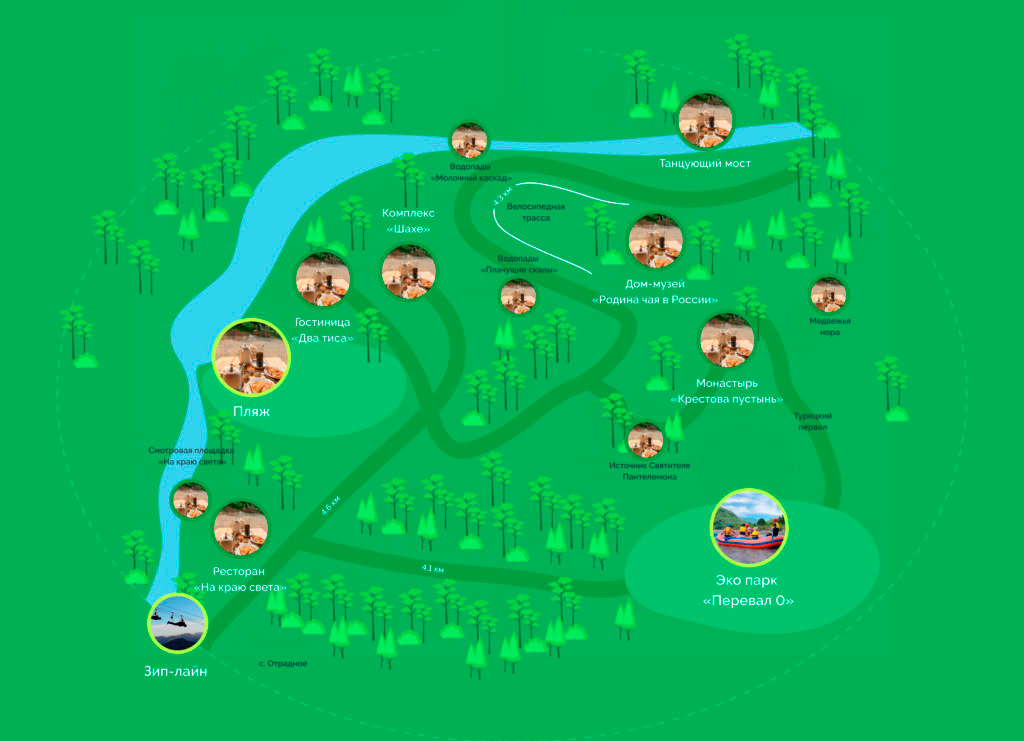
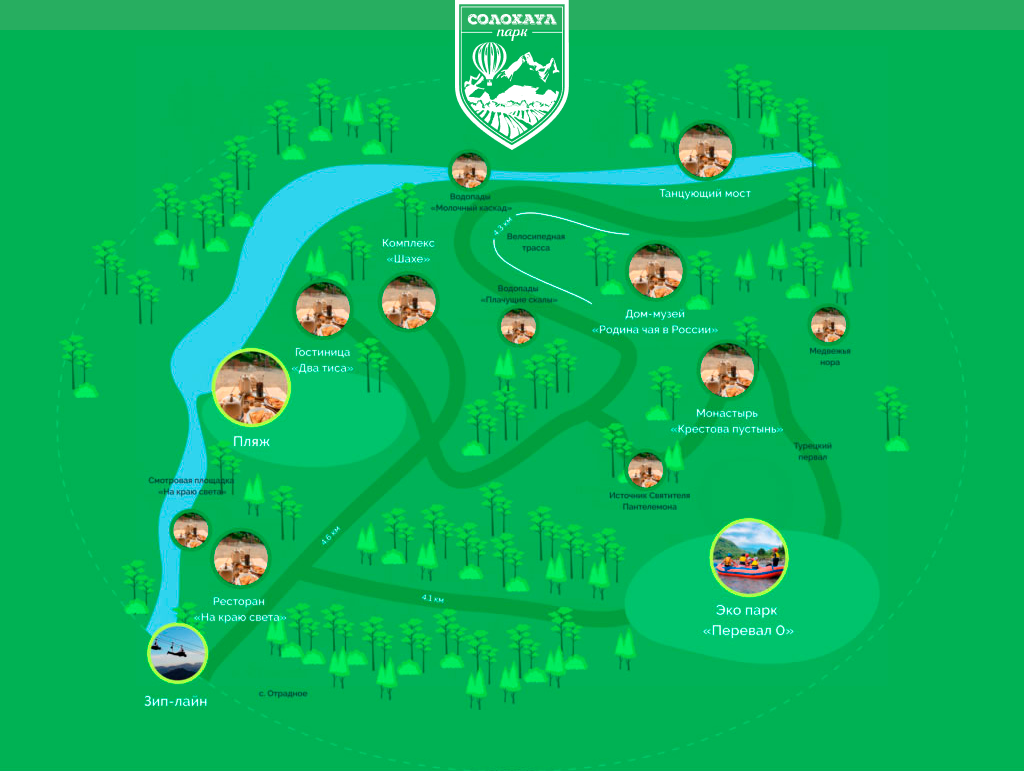
шапка на странице "О парке"

diff --git a/about.html b/about.html
@@ -105,10 +105,10 @@
     </div>
 </div>
 <!-- HEADER END-->
-<!-- CONTENT START-->
-<main class="content content--contacts">
-    <!-- BREADCRUMBS START-->
+<!-- HERO START-->
+<header class="hero hero--about">
     <div class="container">
+        <!-- BREADCRUMBS START-->
         <div class="breadcrumbs">
             <div class="breadcrumbs_item"><a href="#todo">Главная</a></div>
             <div class="breadcrumbs_item">
@@ -116,69 +116,113 @@
                     <use xlink:href="assets/svg/sprite.svg#chevron-right"></use>
                 </svg>
             </div>
-            <div class="breadcrumbs_item"><a href="#todo">Новости</a></div>
-            <div class="breadcrumbs_item">
-                <svg class="icon icon--chevron-right">
-                    <use xlink:href="assets/svg/sprite.svg#chevron-right"></use>
+            <div class="breadcrumbs_item breadcrumbs_item--active"><span>О парке</span></div>
+        </div>
+        <!-- BREADCRUMBS END -->
+        <div class="hero_content">
+            <h1 class="title">О парке</h1>
+            <p class="sub-title">Солохаул парк — это удивительный мир дикой, нетронутой природы в часе езды от Сочи. Если вы решили провести время с семьёй и получить самые незабываемые впечатления от пребывания на свежем воздухе, то добро пожаловать в парк «Солохаул»! Скучно не будет никому!</p>
+            <div class="btn btn--primary">Купить билеты</div>
+        </div>
+        <div class="hero_play-wrapper">
+            <svg class="hero_play icon icon--play">
+                <use xlink:href="assets/svg/sprite.svg#play"></use>
+            </svg>
+        </div>
+        <div class="weather-widget">
+            <div class="weather-widget_title"><span>Сочи,</span> <span>суббота</span></div>
+            <div class="weather-widget_data">
+                <svg class="weather-widget_icon icon icon--weather">
+                    <use xlink:href="assets/svg/sprite.svg#weather-cloudly"></use>
                 </svg>
+                <span class="weather-widget_temperature">+21 С</span>
             </div>
-            <div class="breadcrumbs_item breadcrumbs_item--active"><span>Новость</span></div>
         </div>
     </div>
-    <!-- BREADCRUMBS END -->
-    <div class="container">
-        <h1 class="h2">Контакты</h1>
-        <p>Мы всегда будем рады видеть вас в нашем парке</p>
-    </div>
-    <!-- CONTACTS START-->
-    <section class="contacts-info">
+</header>
+<!-- HERO END-->
+<!-- CONTENT START-->
+<main class="content">
+    <!-- ABOUT START-->
+    <section class="about-page">
         <div class="container">
-            <div class="contacts-info_items">
-                <div class="contacts-info_item">
-                    <svg class="contacts-info_item-logo icon icon--address">
-                        <use xlink:href="assets/svg/sprite.svg#address"></use>
-                    </svg>
-                    <h2 class="contacts-info_item-title">Адрес</h2>
-                    <div class="contacts-info_item-content">
-                        354538, Россия, Краснодарский край, город Сочи, село Солохаул, улица Ноябрьская, дом 15Д
-                    </div>
+            <div>
+                <div>
+                    <h2>Горы и водопады</h2>
+                    <p>
+                        В парке можно прогуляться среди гор и водопадов, понежиться в гамаках, наслаждаясь пейзажами
+                        долины
+                        реки
+                        Шахе и горы Фишт, которые по праву считаются заслуженным украшением этих мест, искупаться в
+                        чистейшей
+                        горной реке, позагорать
+                    </p>
                 </div>
-                <div class="contacts-info_item">
-                    <svg class="contacts-info_item-logo icon icon--email">
-                        <use xlink:href="assets/svg/sprite.svg#email"></use>
-                    </svg>
-                    <h2 class="contacts-info_item-title">E-mail</h2>
-                    <div class="contacts-info_item-content">
-                        <a class="link link--primary" href="#todo">info@solohaulpark.ru</a>
-                    </div>
+                <img src="" alt="#todo">
+            </div>
+            <div class="divider"></div>
+            <div>
+                <div>
+                    <h2>Активно</h2>
+                    <p>
+                        Для желающих пройти испытания на прочность, смелость и выносливость опытными инструкторами
+                        подготовлены
+                        программы экстремальных развлечений: зиплайн, верёвочный парк, обзорный подъем на воздушном
+                        шаре,
+                        ознакомительная прогулка на военном БТР
+                    </p>
                 </div>
-                <div class="contacts-info_item">
-                    <svg class="contacts-info_item-logo icon icon--phone">
-                        <use xlink:href="assets/svg/sprite.svg#phone"></use>
-                    </svg>
-                    <h2 class="contacts-info_item-title">Телефон</h2>
-                    <div class="contacts-info_item-content">
-                        <div><a class="link link--primary" href="#todo">+7 (928) 449-88-85</a></div>
-                        <div>Вт. - Вс. с 12:00 до 18:00</div>
-                        <div>Понедельник — выходной</div>
-                    </div>
+                <img src="" alt="#todo">
+            </div>
+            <div class="divider"></div>
+            <div>
+                <div>
+                    <h2>Для детей</h2>
+                    <p>
+                        Наши самые маленькие, но при этом не менее дорогие гости, смогут посетить детский верёвочный
+                        парк,
+                        под
+                        неусыпным и бдительным присмотром опытных инструкторов, которые встретят вас, как старинных
+                        знакомых
+                    </p>
                 </div>
-                <div class="contacts-info_item">
-                    <svg class="contacts-info_item-logo icon icon--office-hours">
-                        <use xlink:href="assets/svg/sprite.svg#office-hours"></use>
-                    </svg>
-                    <h2 class="contacts-info_item-title">Режим работы</h2>
-                    <div class="contacts-info_item-content">
-                        <div>Вт.-Вс.</div>
-                        <div>«ЗипЛайн» с 10:00 до 18:00</div>
-                        <div>«Зеленая поляна» с 12:00 до 18:00</div>
-                        <div>Понедельник — выходной!</div>
-                    </div>
+                <img src="" alt="#todo">
+            </div>
+            <div class="divider"></div>
+            <div>
+                <div>
+                    <h2>Еда</h2>
+                    <p>
+                        Ну и, конечно же, после многочисленных ярких впечатлений, мы приглашаем наших гостей
+                        подкрепиться
+                        вкусными блюдами, которые всегда рады предложить в нескольких ресторанах нашего «Солохаул
+                        Парка».
+                        Если
+                        вы захотите остаться на ночь — на территории есть несколько гостиниц.
+                    </p>
                 </div>
+                <img src="" alt="#todo">
             </div>
         </div>
     </section>
-    <!-- CONTACTS END-->
+    <!-- ABOUT END-->
+    <!-- GALLERY START-->
+    <section class="gallery gray">
+        <div class="container">
+            <h2 class="title">Фотогалерея</h2>
+            <div class="grid">
+                <div class="card grid_cell"></div>
+            </div>
+        </div>
+    </section>
+    <!-- GALLERY END-->
+    <!-- PARK MAP START-->
+    <section class="park-map">
+        <div class="container">
+            <img src="./assets/img/park-map.png" alt="#todo">
+        </div>
+    </section>
+    <!-- PARK MAP END-->
     <!-- CONTACT FORM START-->
     <section class="contact-form gray">
         <div class="container">

diff --git a/index.html b/index.html
@@ -106,7 +106,7 @@
 </div>
 <!-- HEADER END-->
 <!-- HERO START-->
-<header class="hero">
+<header class="hero hero--landing">
     <div class="container">
         <div class="hero_content">
             <h1 class="title">Открытие «AERO PARK»<br>11-13 сентября 2020 г.</h1>
@@ -371,12 +371,12 @@
             </div>
             <div class="transfer_buttons">
                 <div class="btn btn--outline">Оставить заявку</div>
-                <div class="btn btn--link">
+                <a class="btn btn--link" href="geo:43.8071413,39.6113559?z=8">
                     <svg class="icon icon--place">
                         <use xlink:href="assets/svg/sprite.svg#place"></use>
                     </svg>
                     <div class="btn_content">Как доехать?</div>
-                </div>
+                </a>
             </div>
         </div>
     </section>
@@ -536,9 +536,29 @@
     <!-- CONTACT FORM START-->
     <section class="contact-form gray">
         <div class="container">
-            <div class="contact-form_map"></div>
+            <div id="contact-map" class="contact-form_map"></div>
             <div class="contact-form_form">
-                <h2 class="title">Остались вопросы?</h2>
+                <h2 class="title h3">Остались вопросы?</h2>
+                <form class="form">
+                    <div class="form_field">
+                        <input type="text" name="size" id="name">
+                        <label for="name">Имя</label>
+                    </div>
+                    <div class="form_field form_field--not-empty">
+                        <input type="text" name="size" id="email">
+                        <label for="email">Электронная почта</label>
+                    </div>
+                    <div class="form_field form_field--success">
+                        <input type="text" name="size" id="phone">
+                        <label for="phone">Телефон</label>
+                    </div>
+                    <div class="form_field form_field--error">
+                        <input type="text" name="size" id="message">
+                        <label for="message">Вопрос</label>
+                        <div class="form_field-error">Обязательно поле</div>
+                    </div>
+                </form>
+                <button class="contact-form_btn btn btn--inline btn--primary">Отправить</button>
             </div>
         </div>
     </section>
@@ -657,5 +677,8 @@
         crossorigin="anonymous">
 </script>
 <script src="assets/js/index.js"></script>
+<script
+        src="https://maps.googleapis.com/maps/api/js?key=AIzaSyBq50xkGwbiIwG2_tjPl0tmuzoEJr7Sr14&callback=initMap">
+</script>
 </body>
 </html>

diff --git a/assets/css/style.css b/assets/css/style.css
@@ -184,6 +184,8 @@ section.green {
 }
 
 .btn.btn--link {
+    color: #FFFFFF;
+    text-decoration: none;
     border: 0px;
     padding: 0px 30px 0px 20px;
 }
@@ -654,6 +656,12 @@ section.green {
     background-size: cover;
     background-position: bottom;
 }
+.hero.hero--landing {
+    background-image: url("../img/content/main-hero-bg.jpg");
+}
+.hero.hero--about {
+    background-image: url("../img/content/about/about-hero-image.jpg");
+}
 
 .hero .container {
     position: relative;
@@ -716,24 +724,30 @@ section.green {
     bottom: 50px;
 }
 
-.weather-widget_title {
+.weather-widget_title span:first-child {
+    font-size: 24px;
 }
 
 .weather-widget_data {
+    display: flex;
+    align-items: flex-end;
 }
 
 .weather-widget_icon {
+    margin-right: 10px;
 }
 
 .weather-widget_temperature {
+    font-size: 24px;
 }
 
 
 /************ BREADCRUMBS ************/
 .breadcrumbs {
     display: flex;
-    align-items: center;
+    align-items: baseline;
     height: 60px;
+    padding: 20px 0px;
     font-size: 15px;
 }
 
@@ -741,19 +755,37 @@ section.green {
     display: flex;
     align-items: center;
 }
-
-.breadcrumbs_item--active {
-    color: #27AE60;
+.breadcrumbs_item .icon.icon--chevron-right {
+    width: 5px;
+    height: 8px;
 }
-
 .breadcrumbs_item:not(:last-child) {
     margin-right: 10px;
 }
 
-.breadcrumbs_item > a {
+.breadcrumbs_item--active {
     color: #333333;
 }
 
+.breadcrumbs_item > a {
+    color: #27AE60;
+}
+.breadcrumbs_item > a:hover {
+    color: #27AE60;
+}
+
+.hero.hero--about .breadcrumbs {
+    position: absolute;
+    top: 0px;
+    color: #333333;
+}
+
+.hero.hero--about .breadcrumbs .breadcrumbs_item > a {
+    color: #333333;
+}
+.hero.hero--about .breadcrumbs .breadcrumbs_item > a:hover {
+    color: #27AE60;
+}
 
 /************ PAGINATION ************/
 .pagination {
@@ -2161,6 +2193,16 @@ section.green {
 
 @media (min-width: 1200px) {}
 
+/************ PARK MAP ************/
+.park-map {
+    background-color: #00b254;
+    padding-top: 70px;
+    padding-bottom: 70px;
+}
+.park-map .container {
+    display: flex;
+    justify-content: center;
+}
 /************ FORM ************/
 .form_field {
     position: relative;

diff --git a/assets/js/index.js b/assets/js/index.js
@@ -3,3 +3,19 @@ $(document).ready(function(){
         $(this).toggleClass('open');
     });
 });
+
+// Initialize and add the map
+function initMap() {
+    // The location of Uluru
+    const uluru = { lat: 43.8071413, lng: 39.6113559 };
+    // The map, centered at Uluru
+    const map = new google.maps.Map(document.getElementById("contact-map"), {
+        zoom: 10,
+        center: uluru,
+    });
+    // The marker, positioned at Uluru
+    const marker = new google.maps.Marker({
+        position: uluru,
+        map: map,
+    });
+}
